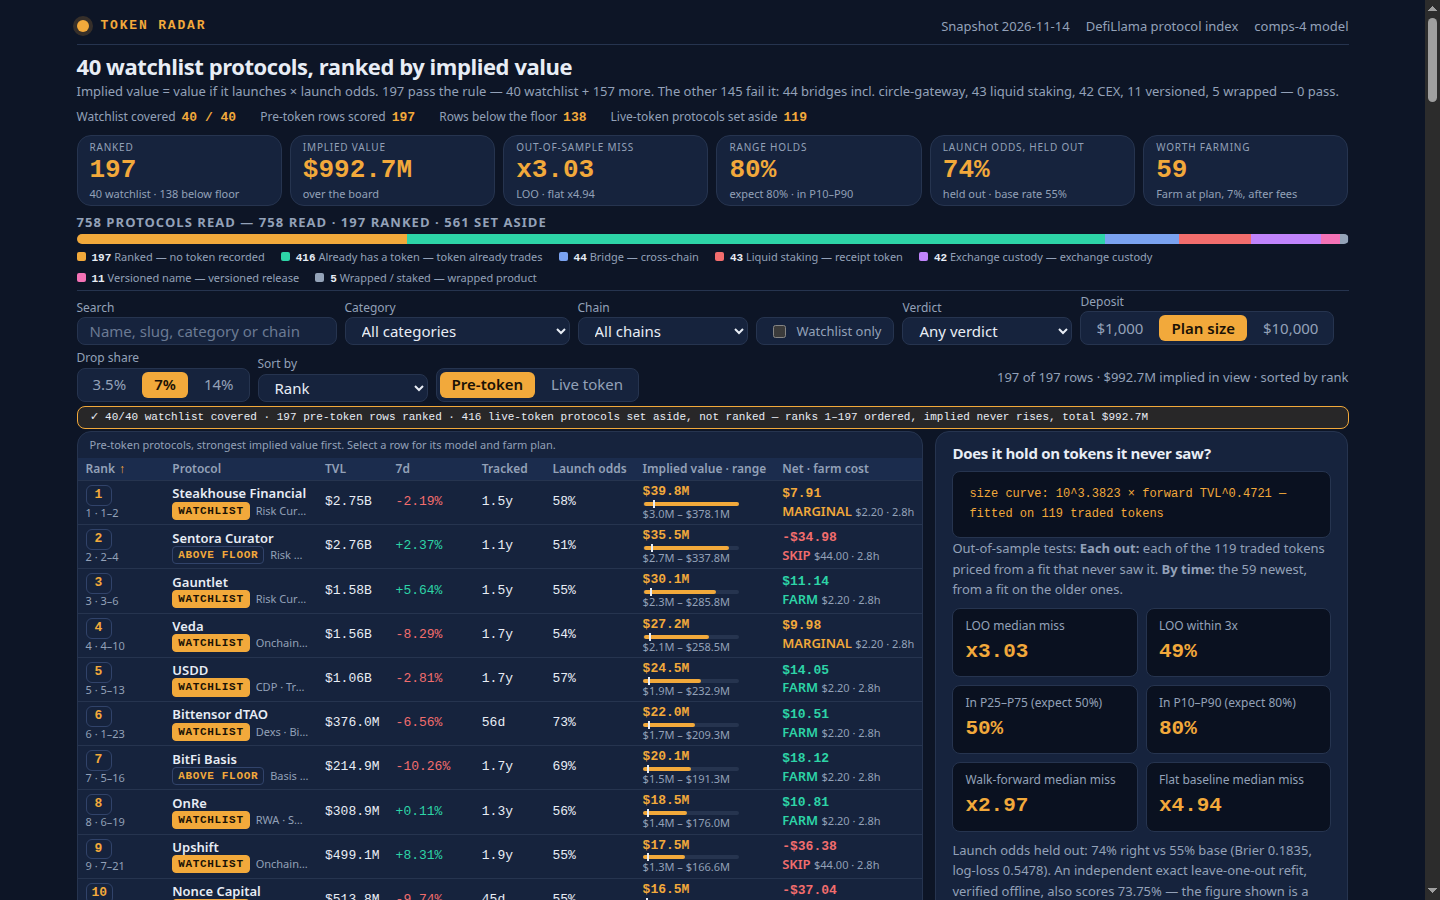
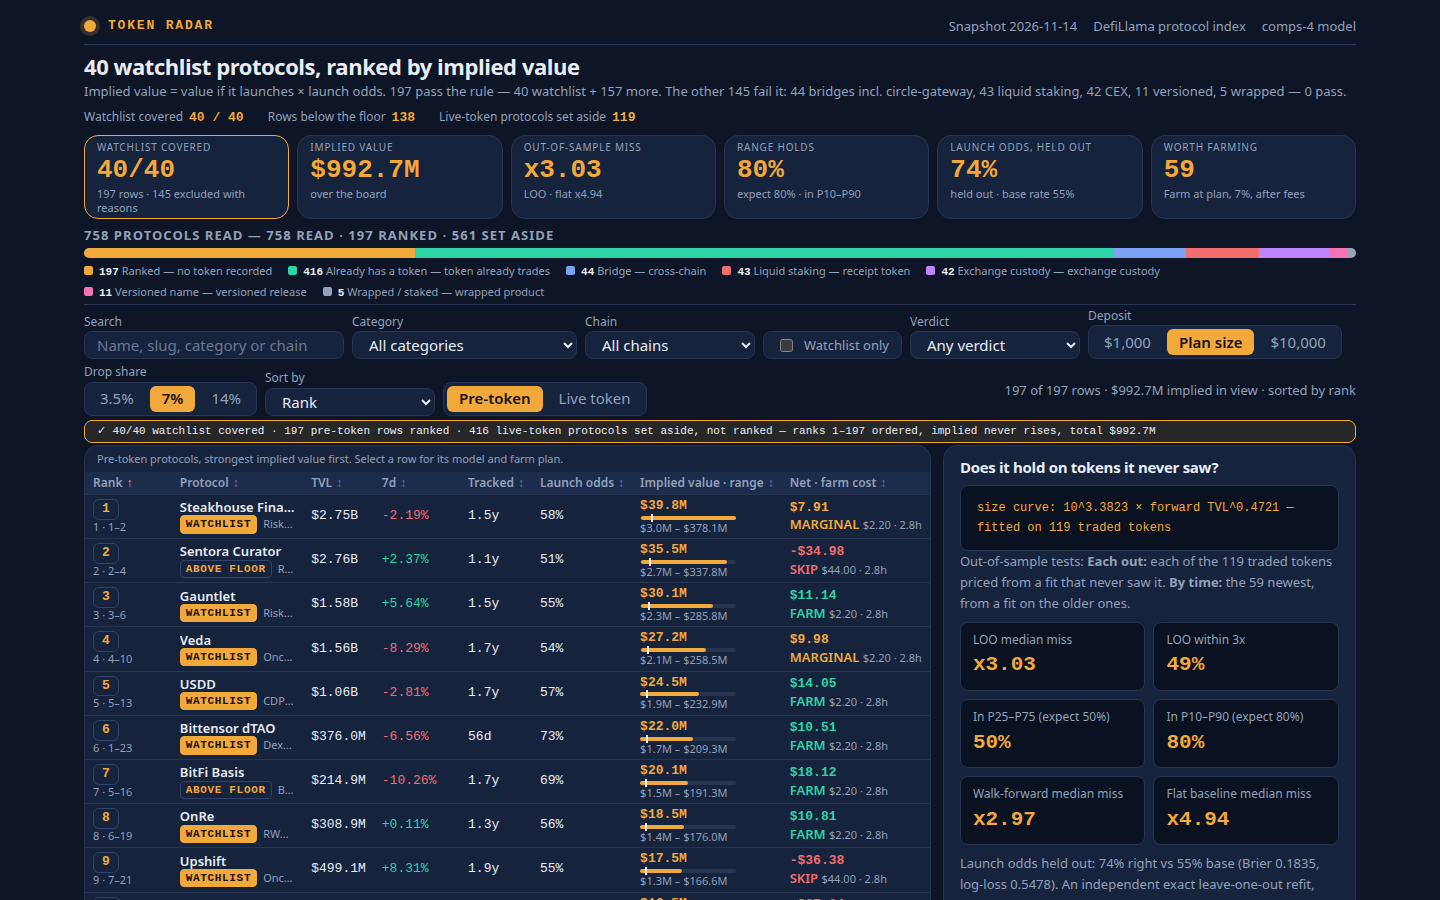
token-radar-01: comps-12 — dominant coverage KPI (C1), quotable farm plan (C3), visible sort arrows (C4); model unchanged

diff --git a/dashboard/app.js b/dashboard/app.js
@@ -157,7 +157,6 @@ var A = DATA.accounting || [];
 var ac = function (i) { return A[i] ? A[i].count : 0; };
 $('ledeText').textContent = 'Implied value = value if it launches × launch odds. ' + DATA.board_size + ' pass the rule — ' + w + ' watchlist + ' + (DATA.board_size - w) + ' more. The other ' + (ac(2) + ac(3) + ac(4) + ac(5) + ac(6)) + ' fail it: ' + ac(2) + ' bridges incl. circle-gateway, ' + ac(3) + ' liquid staking, ' + ac(4) + ' CEX, ' + ac(5) + ' versioned, ' + ac(6) + ' wrapped — 0 pass.';
 $('factWatch').textContent = w + ' / ' + w;
-$('factBoard').textContent = String(DATA.board_size);
 $('factEarly').textContent = String(rowsAll.filter(function (r) { return r.tvl_usd < DATA.floor_usd; }).length);
 $('factLive').textContent = String(DATA.live_size || liveAll.length);
 $('formula').textContent = 'implied = round(size_curve × category_premium × launch_odds), size_curve = 10^' + M.curve_a + ' x forward_tvl^' + M.curve_b + ', forward_tvl = tvl x momentum (7-day change clamped to ' + M.growth_floor + '%–' + M.growth_cap + '%)';
@@ -177,8 +176,10 @@ function renderKpi() {
 var k = DATA.kpi || {};
 var total = k.total_implied_usd !== undefined ? k.total_implied_usd : rowsAll.reduce(function (s, r) { return s + (r.implied_value_usd || 0); }, 0);
 var worth = k.worth_farming !== undefined ? k.worth_farming : rowsAll.filter(function (r) { return verdictSel(r) === 'FARM'; }).length;
+var w = DATA.watchlist_size || 0, ex = 0, i, AC = DATA.accounting || [];
+for (i = 2; i < 7; i++) ex += (AC[i] || { count: 0 }).count;
 var tiles = [
-['Ranked', String(k.ranked !== undefined ? k.ranked : DATA.board_size), (DATA.watchlist_size || 0) + ' watchlist · ' + rowsAll.filter(function (r) { return r.tvl_usd < DATA.floor_usd; }).length + ' below floor'],
+['Watchlist covered', w + '/' + w, DATA.board_size + ' rows · ' + ex + ' excluded with reasons'],
 ['Implied value', fmtUsd(total), 'over the board'],
 ['Out-of-sample miss', (k.loo_miss !== undefined ? k.loo_miss : k.loo_median_miss) !== undefined ? 'x' + (k.loo_miss !== undefined ? k.loo_miss : k.loo_median_miss).toFixed(2) : 'n/a', 'LOO · flat x' + (DATA.validation && DATA.validation.flat_baseline ? DATA.validation.flat_baseline.median_miss.toFixed(2) : 'n/a')],
 ['Range holds', k.range_holds_pct !== undefined ? Math.round(k.range_holds_pct) + '%' : 'n/a', 'expect 80% · in P10–P90'],
@@ -200,7 +201,7 @@ $('acctBar').innerHTML = acc.map(function (a, i) { return '<i style="width:' + (
 $('acctLegend').innerHTML = acc.map(function (a, i) { return '<li><span class="dot" style="background:' + ACCT_COLORS[i % ACCT_COLORS.length] + '"></span><b>' + a.count + '</b> ' + esc(ACCT_LABEL[a.label] || a.label) + ' — ' + esc(ACCT_SHORT[a.label] || a.reason) + '</li>'; }).join('');
 }
 function th(key, label) {
-var arrow = state.sort === key ? ' <span class="arrow" aria-hidden="true">' + (state.dir === 'desc' ? '↓' : '↑') + '</span>' : '';
+var arrow = ' <span class="arrow' + (state.sort === key ? '' : ' off') + '" aria-hidden="true">' + (state.sort === key ? (state.dir === 'desc' ? '↓' : '↑') : '↕') + '</span>';
 return '<th aria-sort="' + (state.sort === key ? (state.dir === 'desc' ? 'descending' : 'ascending') : 'none') + '"><button type="button" data-sort="' + key + '">' + label + arrow + '</button></th>';
 }
 function rangeBar(r, max) {
@@ -361,7 +362,7 @@ var slice = c.val * share * dep / Math.max(1, row.tvl_usd);
 var be = slice > 0 ? (row.fees_usd || 0) / slice : null;
 var nph = (row.time_hours && row.time_hours > 0) ? net / row.time_hours : null;
 var beShare = (row.breakeven_share !== undefined && row.breakeven_share !== null) ? row.breakeven_share : ((row.fees_usd || 0) * row.tvl_usd / Math.max(1, (row.plan_size_usd || 1000) * row.implied_value_usd));
-var planSum = '<p class="sub">Plan: ' + esc(fmtUsd(row.plan_size_usd)) + ' in · ' + esc(fmtUsd(row.fees_usd)) + ' gas (22 tx) · ' + (row.time_hours !== undefined ? row.time_hours + ' h active' : 'n/a') + ' · drop ' + esc(fmtNet(row.drop_usd)) + ' at 7% · net ' + esc(fmtNet(row.net_usd)) + ' (' + esc(fmtNet(row.net_per_hour_usd)) + '/h) · ' + esc(row.verdict) + ' · breaks even at a ' + (beShare * 100).toFixed(1) + '% drop share.</p>';
+var planSum = '<p class="sub">Plan: ' + (row.farm_steps || []).length + ' steps · ' + esc(fmtUsd(row.plan_size_usd)) + ' in · <b>' + esc(fmtUsd(row.fees_usd)) + '</b> gas (22 tx) · <b>' + (row.time_hours !== undefined ? row.time_hours + ' h' : 'n/a') + '</b> active · drop ' + esc(fmtNet(row.drop_usd)) + ' at 7% · net <b>' + esc(fmtNet(row.net_usd)) + '</b> (' + esc(fmtNet(row.net_per_hour_usd)) + '/h) · ' + esc(row.verdict) + ' · stop below <b>' + (beShare * 100).toFixed(1) + '%</b> drop share.</p>';
 function parseStep(s) {
 var ci = s.lastIndexOf(' Cost: '), ti = s.lastIndexOf(' Time: ');
 if (ci < 0 || ti < 0 || ti < ci) return null;

diff --git a/dashboard/app.css b/dashboard/app.css
@@ -54,6 +54,8 @@ thead th{position:sticky;top:0;background:var(--surface2);color:var(--muted);fon
 th button{display:inline-flex;align-items:center;gap:var(--s1);border:0;background:none;padding:0;color:inherit;font:inherit}
 th button:hover{color:var(--ink)}
 th button .arrow{color:var(--amber)}
+th button .arrow.off{color:var(--faint)}
+.kpi-tile:first-child{border-color:var(--amber)}
 tbody tr{cursor:pointer}
 tbody tr:hover{background:var(--surface2)}
 tbody tr.static{cursor:default}
@@ -84,6 +86,7 @@ td:first-child .sub{white-space:nowrap}
 .empty p{color:var(--muted)}
 .button{min-height:38px;padding:0 var(--s4);border:1px solid var(--border);border-radius:var(--r1);background:var(--surface)}
 .button.primary{background:var(--amber);border-color:var(--amber);color:var(--amber-ink);font-weight:600}
+.detail .sub b{color:var(--ink)}
 .detail{position:fixed;top:0;right:0;bottom:0;margin:0 0 0 auto;max-height:100%;z-index:10;background:var(--surface);color:var(--ink);border:0;border-left:1px solid var(--border2);padding:var(--s5);overflow-y:auto}
 .detail::backdrop{background:rgba(4,8,18,.6)}
 .detail-head{display:flex;align-items:start;justify-content:space-between;gap:var(--s4)}
@@ -104,7 +107,7 @@ td:first-child .sub{white-space:nowrap}
 .farm{width:100%;font-size:13px;line-height:1.45;border-collapse:collapse}
 .farm th,.farm td{padding:4px 8px;border-bottom:1px solid var(--border);vertical-align:top;text-align:left}
 .farm thead th{position:static;color:var(--muted);font-size:11px}
-.farm td.num{white-space:normal;font-family:var(--font-num);font-size:12px}
+.farm td.num{white-space:normal;font-family:var(--font-num);font-size:13px;font-weight:700}
 .farm td:first-child{white-space:nowrap}
 .farm td:nth-child(2){width:88px}
 .farm td:nth-child(4){width:100px}

diff --git a/dashboard/index.html b/dashboard/index.html
@@ -21,7 +21,6 @@
 </div>
 <div class="facts" aria-label="Coverage">
 <div class="fact"><span>Watchlist covered</span><b id="factWatch"></b></div>
-<div class="fact"><span>Pre-token rows scored</span><b id="factBoard"></b></div>
 <div class="fact"><span>Rows below the floor</span><b id="factEarly"></b></div>
 <div class="fact"><span>Live-token protocols set aside</span><b id="factLive"></b></div>
 </div>

diff --git a/README.md b/README.md
@@ -6,9 +6,9 @@
 
 A token launch radar: it reads a sealed DefiLlama snapshot of 758 protocols and writes a web dashboard that ranks the 197 pre-token, standalone protocols by what their launch would be worth, each with a costed farm plan and a FARM / MARGINAL / SKIP verdict.
 
-## The model ("comps-11" — comps-10 + the ranked angles from the comps-10 sim: the 145-exclusion footnote on the board (C1), per-row farm cost/time in shot 1 (C3), visible filter chips in shot 3 (C4); model unchanged, board stays 197)
+## The model ("comps-12" — comps-11 + the ranked angles from the comps-11 sim: the 40/40 · 197 · 145-excluded coverage figures as the biggest KPI on the board (C1), a quotable one-line farm plan with bold cost/time in the detail view (C3), and a visible sort arrow on every sortable column header (C4); model unchanged, board stays 197)
 
-comps-11 keeps the comps-10 model and layout and attacks the three weak cells from the comps-10 sim: the lede now states the exclusion on the board ("197 pass the rule — 40 watchlist + 157 more. The other 145 fail it: 44 bridges incl. circle-gateway, 43 liquid staking, 42 CEX, 11 versioned, 5 wrapped — 0 pass", live from the accounting); every board row now shows its farm cost/time beside the verdict ("MARGINAL $2.20 · 2.8h", from the row's own fees and active hours); and the filtered view shows a filled "Watchlist only" chip above "40 of 197 rows · $440.9M implied in view". The 198th row does not exist under our own rules: all 145 excluded pre-token protocols fail at least one rule, so the board stays 197 rows. See MODEL_NOTES.md.
+comps-12 keeps the comps-11 model and layout and attacks the three weak cells from the comps-11 sim: the first KPI tile is now "WATCHLIST COVERED 40/40 — 197 rows · 145 excluded with reasons" (live from the accounting, amber-bordered); every detail view opens with a quotable plan line ("8 steps · $2.20 gas · 2.83h active · stop below 1.5% drop share", live from the row) with bold per-step Cost/Time; and every sortable header shows an arrow (amber ↑/↓ on the active sort, faint ↕ elsewhere). The 198th row does not exist under our own rules: all 145 excluded pre-token protocols fail at least one rule, so the board stays 197 rows. See MODEL_NOTES.md.
 
 Implied value follows from the snapshot's own figures — no hardcoded names:
 
